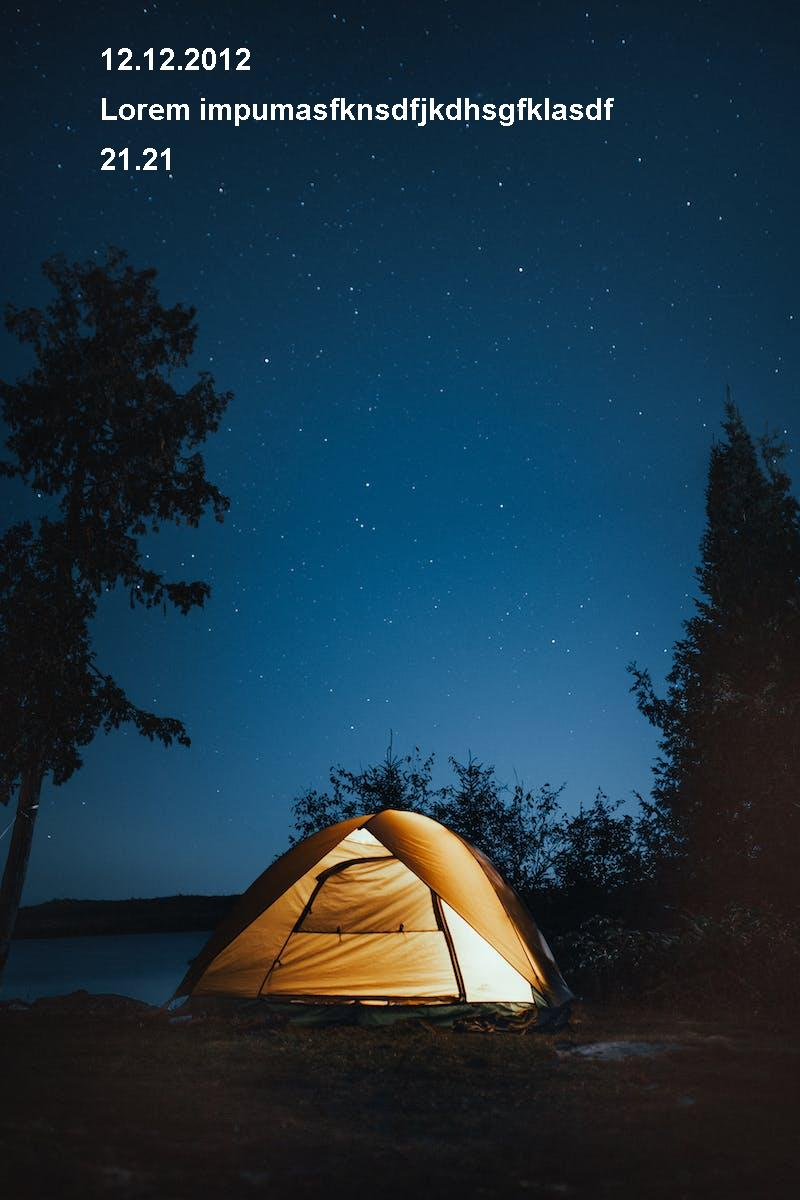
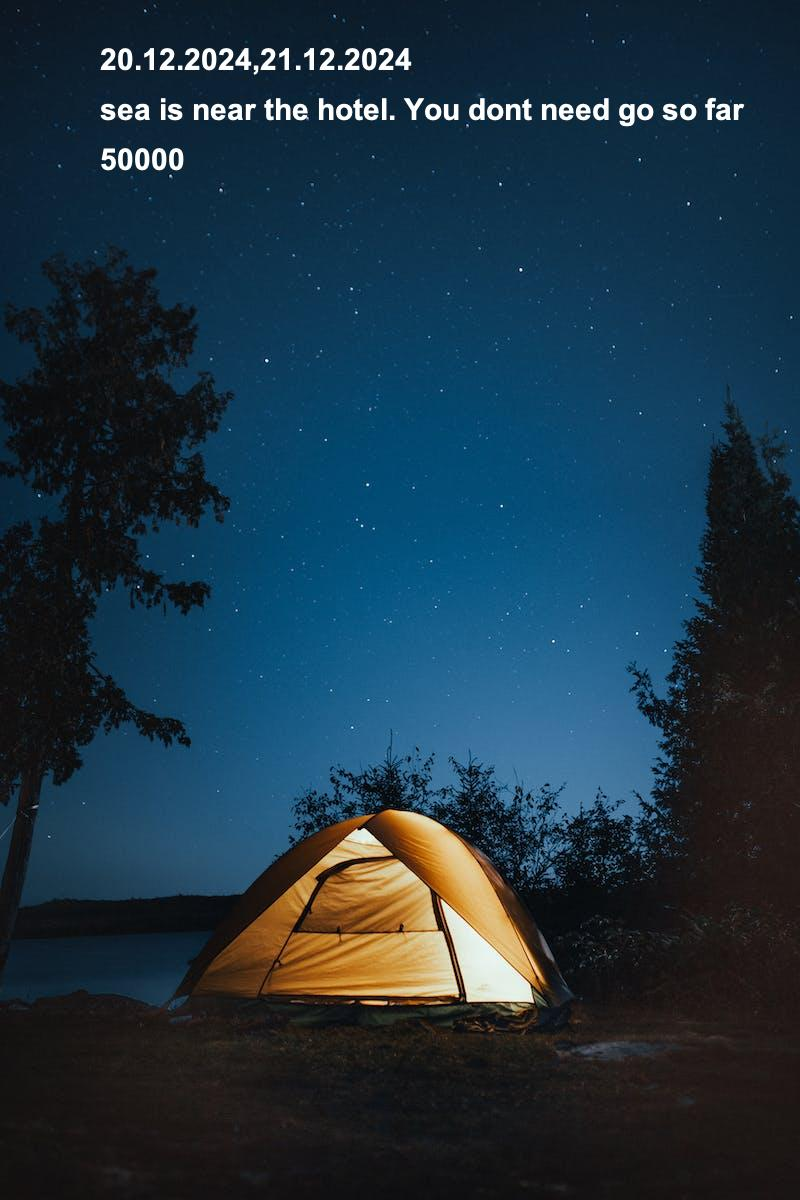
photo with text generator added

Changed region(s): [[0.125, 0.0308, 0.9375, 0.1542]]

diff --git a/src/main/java/az/code/turaltelegrambot/service/OfferService.java b/src/main/java/az/code/turaltelegrambot/service/OfferService.java
@@ -2,8 +2,21 @@ package az.code.turaltelegrambot.service;
 
 
 import az.code.turaltelegrambot.dto.OfferDto;
+import az.code.turaltelegrambot.telegram.TelegramBot;
+import lombok.RequiredArgsConstructor;
+import lombok.extern.slf4j.Slf4j;
+import org.apache.commons.io.FileUtils;
 import org.apache.kafka.common.message.DescribeUserScramCredentialsRequestData;
 import org.springframework.stereotype.Service;
+import org.telegram.telegrambots.bots.DefaultAbsSender;
+import org.telegram.telegrambots.bots.DefaultBotOptions;
+import org.springframework.beans.factory.annotation.Value;
+import org.telegram.telegrambots.meta.api.methods.send.SendPhoto;
+import org.telegram.telegrambots.meta.api.objects.InputFile;
+import org.telegram.telegrambots.meta.api.objects.Message;
+import org.telegram.telegrambots.meta.api.objects.replykeyboard.ReplyKeyboard;
+import org.telegram.telegrambots.meta.exceptions.TelegramApiException;
+
 
 import javax.imageio.ImageIO;
 import java.awt.*;
@@ -12,25 +25,17 @@ import java.io.File;
 import java.io.IOException;
 
 @Service
-public class OfferService {
+@Slf4j
+@RequiredArgsConstructor
+public class OfferService{
 
-    public static void main(String[] args) {
-        OfferDto offerDto = new OfferDto();
-        offerDto.setPrice("21.21");
-        offerDto.setDateRange("12.12.2012");
-        offerDto.setAdditionalInfo("Lorem impumasfknsdfjkdhsgfklasdf");
-        SendOffer(offerDto);
+    private final TelegramBot telegramBot;
 
-    }
-
-    public static void SendOffer(OfferDto offerDto){
-
+    public void generateImageWithText(OfferDto offerDto) {
         int width = 400;
         int height = 200;
 
-
         String backgroundImagePath = "background.jpg";
-
         BufferedImage backgroundImage = null;
         try {
             backgroundImage = ImageIO.read(new File("src/main/resources/img_2.png"));
@@ -38,28 +43,19 @@ public class OfferService {
             System.out.println(e);
         }
 
-
         if (backgroundImage == null) {
             return;
         }
 
-
         BufferedImage image = new BufferedImage(backgroundImage.getWidth(), backgroundImage.getHeight(), BufferedImage.TYPE_INT_RGB);
-
-
         Graphics graphics = image.getGraphics();
         graphics.drawImage(backgroundImage, 0, 0, backgroundImage.getWidth(), backgroundImage.getHeight(), null);
-
-
         graphics.setColor(Color.WHITE);
         graphics.setFont(new Font("Arial", Font.BOLD, 30));
-
 
         String text1 = offerDto.getDateRange();
         String text2 = offerDto.getAdditionalInfo();
         String text3 = offerDto.getPrice();
-        int textX1 = backgroundImage.getWidth()/2;
-        int textY1 = backgroundImage.getHeight()/2;
         graphics.drawString(text1, 100, 70);
         graphics.drawString(text2, 100, 120);
         graphics.drawString(text3, 100, 170);
@@ -74,6 +70,7 @@ public class OfferService {
             System.out.println("An error occurred while saving the image: " + e);
         }
     }
-    }
+
+}
 
 

diff --git a/src/main/java/az/code/turaltelegrambot/listeners/OfferKafkaListener.java b/src/main/java/az/code/turaltelegrambot/listeners/OfferKafkaListener.java
@@ -1,0 +1,32 @@
+package az.code.turaltelegrambot.listeners;
+
+import az.code.turaltelegrambot.dto.OfferDto;
+import az.code.turaltelegrambot.service.OfferService;
+import az.code.turaltelegrambot.telegram.TelegramBot;
+import com.fasterxml.jackson.databind.ObjectMapper;
+import lombok.RequiredArgsConstructor;
+import lombok.extern.slf4j.Slf4j;
+import org.apache.kafka.clients.consumer.ConsumerRecord;
+import org.springframework.kafka.annotation.KafkaListener;
+import org.springframework.stereotype.Component;
+
+@Component
+@Slf4j
+@RequiredArgsConstructor
+public class OfferKafkaListener {
+
+    private final ObjectMapper objectMapper;
+    private final OfferService offerService;
+
+    @KafkaListener(topics = "offer-topic", groupId = "telegram-bot")
+    public void listen(ConsumerRecord<String, String> record) {
+        String jsonString = record.value();
+        log.info("Received Kafka message: {}", jsonString);
+        try {
+            OfferDto offerDto = objectMapper.readValue(jsonString, OfferDto.class);
+            offerService.generateImageWithText(offerDto);
+        } catch (Exception e) {
+            log.error("Error processing Kafka message: {}", e.getMessage());
+        }
+    }
+}
